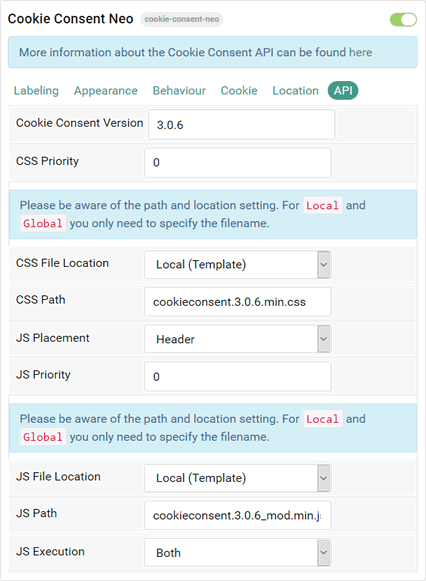
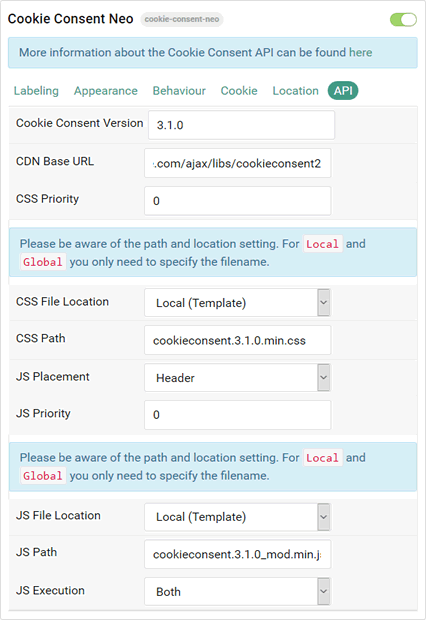
added CDN base URL, prep. v1.5.8

diff --git a/README.md b/README.md
@@ -10,24 +10,24 @@ This project contains a Gantry Atom and adds the [Cookie Consent Javascript API]
 * Cookie Consent API 3.x.x
 
 ## Download
-Choose the correct download for your target platform. The Joomla plugin system is supported for all Gantry themes globally or locally for the templates Helium and Hydrogen. The latest Atom version is **v1.5.7**.
+Choose the correct download for your target platform. The Joomla plugin system is supported for all Gantry themes globally or locally for the templates Helium and Hydrogen. The latest Atom version is **v1.5.8**.
 
 **Attention:** When migrating from **v1.4.7** or below to **v1.5.0** or higher the existing settings of the atom will be reset.
 ___
 **Default Atom:**
-[English](https://github.com/thexmanxyz/Cookie-Consent-Neo-Gantry/releases/download/v1.5.7/ccn.atom.only.EN.v1.5.7.zip) / [Italian](https://github.com/thexmanxyz/Cookie-Consent-Neo-Gantry/releases/download/v1.5.7/ccn.atom.only.IT.v1.5.7.zip) / [German](https://github.com/thexmanxyz/Cookie-Consent-Neo-Gantry/releases/download/v1.5.7/ccn.atom.only.DE.v1.5.7.zip)
+[English](https://github.com/thexmanxyz/Cookie-Consent-Neo-Gantry/releases/download/v1.5.8/ccn.atom.only.EN.v1.5.8.zip) / [Italian](https://github.com/thexmanxyz/Cookie-Consent-Neo-Gantry/releases/download/v1.5.8/ccn.atom.only.IT.v1.5.8.zip) / [German](https://github.com/thexmanxyz/Cookie-Consent-Neo-Gantry/releases/download/v1.5.8/ccn.atom.only.DE.v1.5.8.zip)
 
 **Legacy Atom - Gantry <5.3.2:**
-[English](https://github.com/thexmanxyz/Cookie-Consent-Neo-Gantry/releases/download/v1.5.7/ccn.atom.only.legacy.EN.v1.5.7.zip) / [Italian](https://github.com/thexmanxyz/Cookie-Consent-Neo-Gantry/releases/download/v1.5.7/ccn.atom.only.legacy.IT.v1.5.7.zip) / [German](https://github.com/thexmanxyz/Cookie-Consent-Neo-Gantry/releases/download/v1.5.7/ccn.atom.only.legacy.DE.v1.5.7.zip)
+[English](https://github.com/thexmanxyz/Cookie-Consent-Neo-Gantry/releases/download/v1.5.8/ccn.atom.only.legacy.EN.v1.5.8.zip) / [Italian](https://github.com/thexmanxyz/Cookie-Consent-Neo-Gantry/releases/download/v1.5.8/ccn.atom.only.legacy.IT.v1.5.8.zip) / [German](https://github.com/thexmanxyz/Cookie-Consent-Neo-Gantry/releases/download/v1.5.8/ccn.atom.only.legacy.DE.v1.5.8.zip)
 
 **Joomla Plugin - All Templates (Global):**
-[English](https://github.com/thexmanxyz/Cookie-Consent-Neo-Gantry/releases/download/v1.5.7/ccn.j3.global.EN.v1.5.7.zip) / [Italian](https://github.com/thexmanxyz/Cookie-Consent-Neo-Gantry/releases/download/v1.5.7/ccn.j3.global.IT.v1.5.7.zip) / [German](https://github.com/thexmanxyz/Cookie-Consent-Neo-Gantry/releases/download/v1.5.7/ccn.j3.global.DE.v1.5.7.zip)
+[English](https://github.com/thexmanxyz/Cookie-Consent-Neo-Gantry/releases/download/v1.5.8/ccn.j3.global.EN.v1.5.8.zip) / [Italian](https://github.com/thexmanxyz/Cookie-Consent-Neo-Gantry/releases/download/v1.5.8/ccn.j3.global.IT.v1.5.8.zip) / [German](https://github.com/thexmanxyz/Cookie-Consent-Neo-Gantry/releases/download/v1.5.8/ccn.j3.global.DE.v1.5.8.zip)
 
 **Joomla Plugin - Hydrogen:**
-[English](https://github.com/thexmanxyz/Cookie-Consent-Neo-Gantry/releases/download/v1.5.7/ccn.j3.hydrogen.EN.v1.5.7.zip) / [Italian](https://github.com/thexmanxyz/Cookie-Consent-Neo-Gantry/releases/download/v1.5.7/ccn.j3.hydrogen.IT.v1.5.7.zip) / [German](https://github.com/thexmanxyz/Cookie-Consent-Neo-Gantry/releases/download/v1.5.7/ccn.j3.hydrogen.DE.v1.5.7.zip)
+[English](https://github.com/thexmanxyz/Cookie-Consent-Neo-Gantry/releases/download/v1.5.8/ccn.j3.hydrogen.EN.v1.5.8.zip) / [Italian](https://github.com/thexmanxyz/Cookie-Consent-Neo-Gantry/releases/download/v1.5.8/ccn.j3.hydrogen.IT.v1.5.8.zip) / [German](https://github.com/thexmanxyz/Cookie-Consent-Neo-Gantry/releases/download/v1.5.8/ccn.j3.hydrogen.DE.v1.5.8.zip)
 
 **Joomla Plugin - Helium:**
-[English](https://github.com/thexmanxyz/Cookie-Consent-Neo-Gantry/releases/download/v1.5.7/ccn.j3.helium.EN.v1.5.7.zip) / [Italian](https://github.com/thexmanxyz/Cookie-Consent-Neo-Gantry/releases/download/v1.5.7/ccn.j3.helium.IT.v1.5.7.zip) / [German](https://github.com/thexmanxyz/Cookie-Consent-Neo-Gantry/releases/download/v1.5.7/ccn.j3.helium.DE.v1.5.7.zip)
+[English](https://github.com/thexmanxyz/Cookie-Consent-Neo-Gantry/releases/download/v1.5.8/ccn.j3.helium.EN.v1.5.8.zip) / [Italian](https://github.com/thexmanxyz/Cookie-Consent-Neo-Gantry/releases/download/v1.5.8/ccn.j3.helium.IT.v1.5.8.zip) / [German](https://github.com/thexmanxyz/Cookie-Consent-Neo-Gantry/releases/download/v1.5.8/ccn.j3.helium.DE.v1.5.8.zip)
 ___
 
 ## Automatic Installation (Joomla only)
@@ -65,42 +65,42 @@ Please be aware that the template folder path varies in dependence of the used C
 5. [Optional] The download package contains the original version of the Cookie Consent CSS file. You can embed it over the backend configuration if you do not want to use the default CDN. If you chose automatic installation the file is already there.
 
 ## Supported Parameters and Atom Options
-* Banner Message Text
+* Banner message text
 * Enable / Disable 'Learn More' link
 * URL for the 'Learn More' link
 * Target for the 'Learn More' link
-* Dismiss Button Text
-* Revoke Button Text
-* Banner Position
-* Banner Layout
-* Banner Palette (sixteen default styles, taken from [Cookie Consent](https://cookieconsent.insites.com/download/))
-* Custom Popup/Banner Palette
-  * Background Color
-  * Text Color
-  * Link Color
-* Custom Button Palette
-  * Background Color
-  * Text Color
+* Dismiss button text
+* Revoke button text
+* Banner position
+* Banner layout
+* Banner palette (sixteen default styles, taken from [Cookie Consent](https://cookieconsent.insites.com/download/))
+* Custom popup/banner palette
+  * Background color
+  * Text color
+  * Link color
+* Custom button palette
+  * Background color
+  * Text color
 * Compliance Mode supported
 * Revokable supported
-* Rendering Delay
+* Rendering relay
 * Scrolling and Timeout supported
 * White-/Blacklisting
 * Cookie Configuration
   * Server and Path
-  * Cookie Name
+  * Cookie name
   * Expiry
 * Location Configuration
-  * Service Endpoints
-  * Service Timeout
-  * Country Code
-* Multi Language Support
-  * Internationalization by Language Code
-* Adaptable Cookie Consent API Version
-* JS and CSS Configuration
+  * Service endpoints
+  * Service timeout
+  * Country code
+* Multi language support
+  * Internationalization by language code
+* Adaptable Cookie Consent API version
+* JS and CSS configuration
   * Remote, Local and Default
   * Priority and Position (head or footer)
-* JS Execution
+* JS execution
   * Asynchronous
   * Deferred
 
